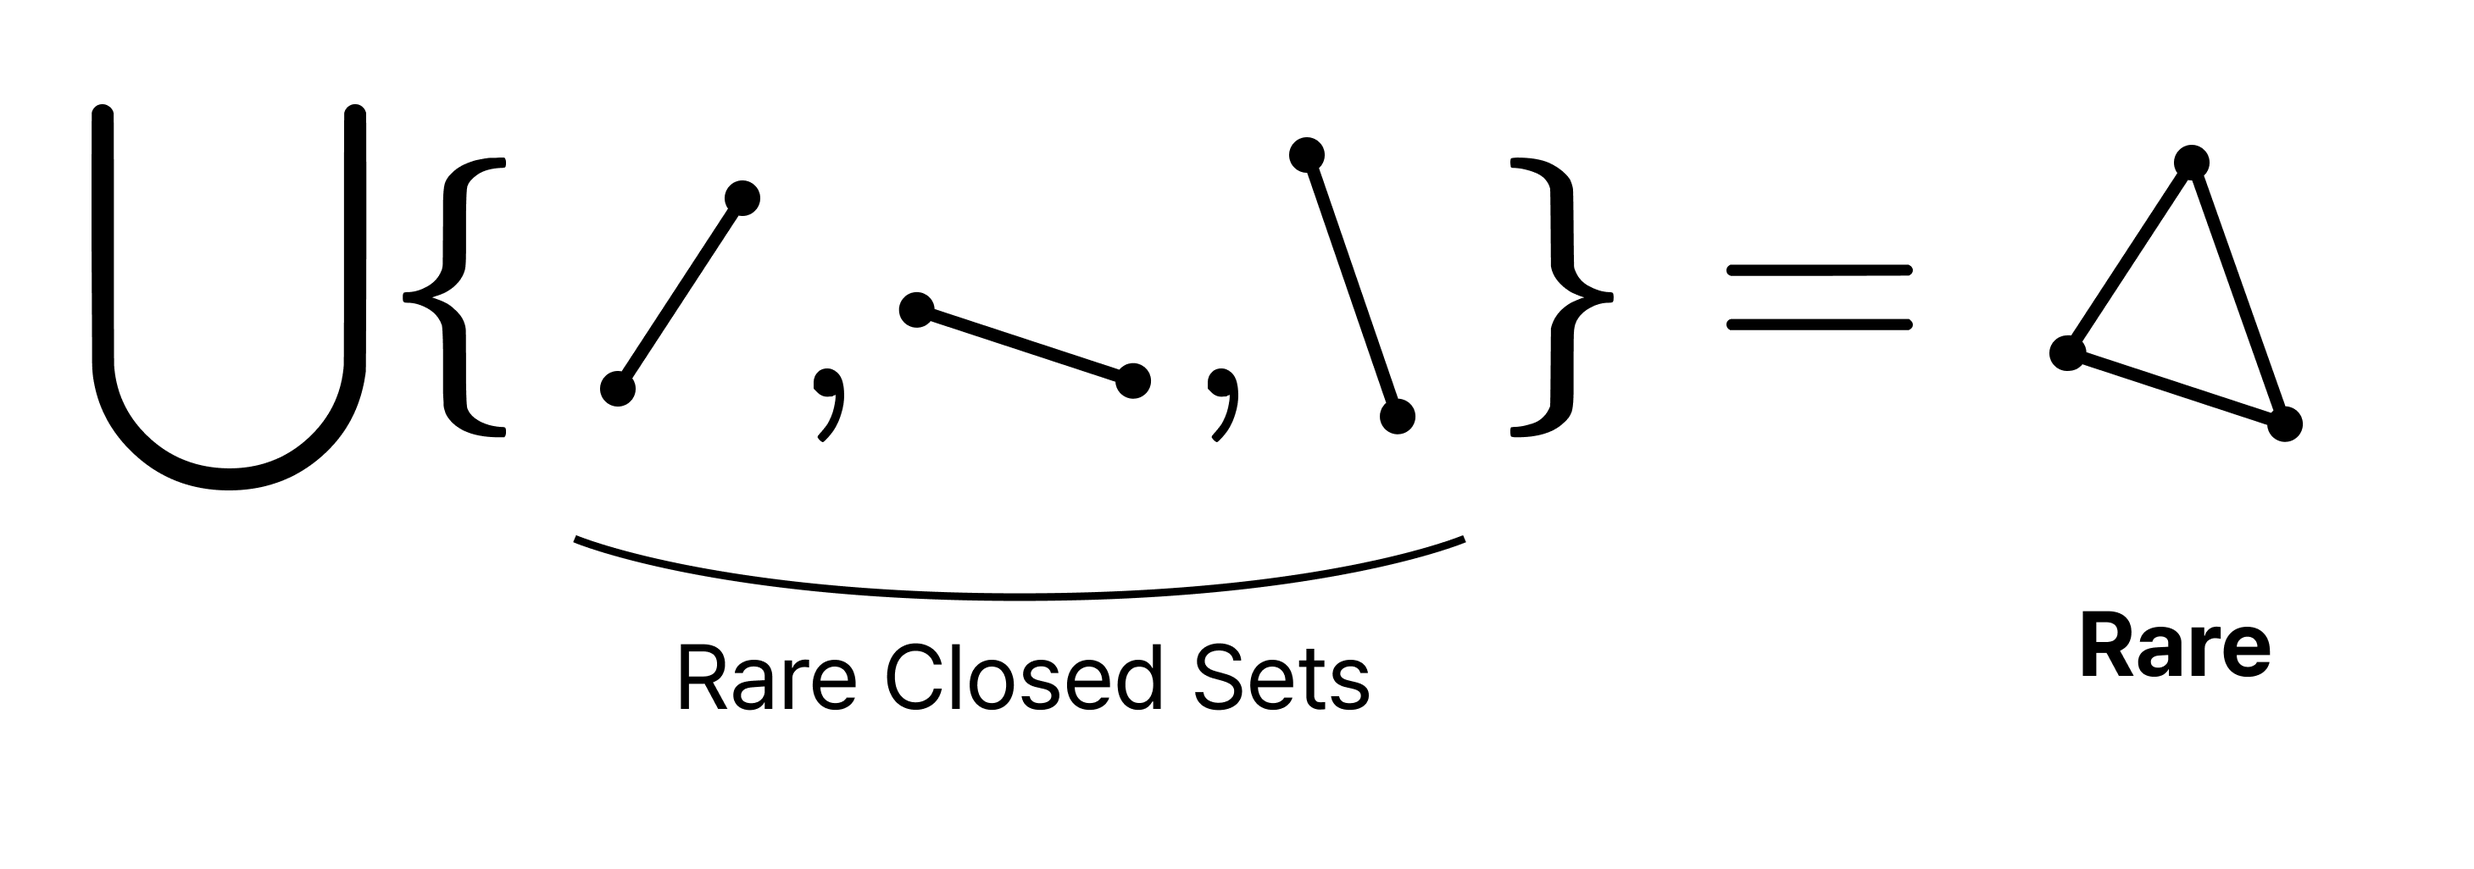
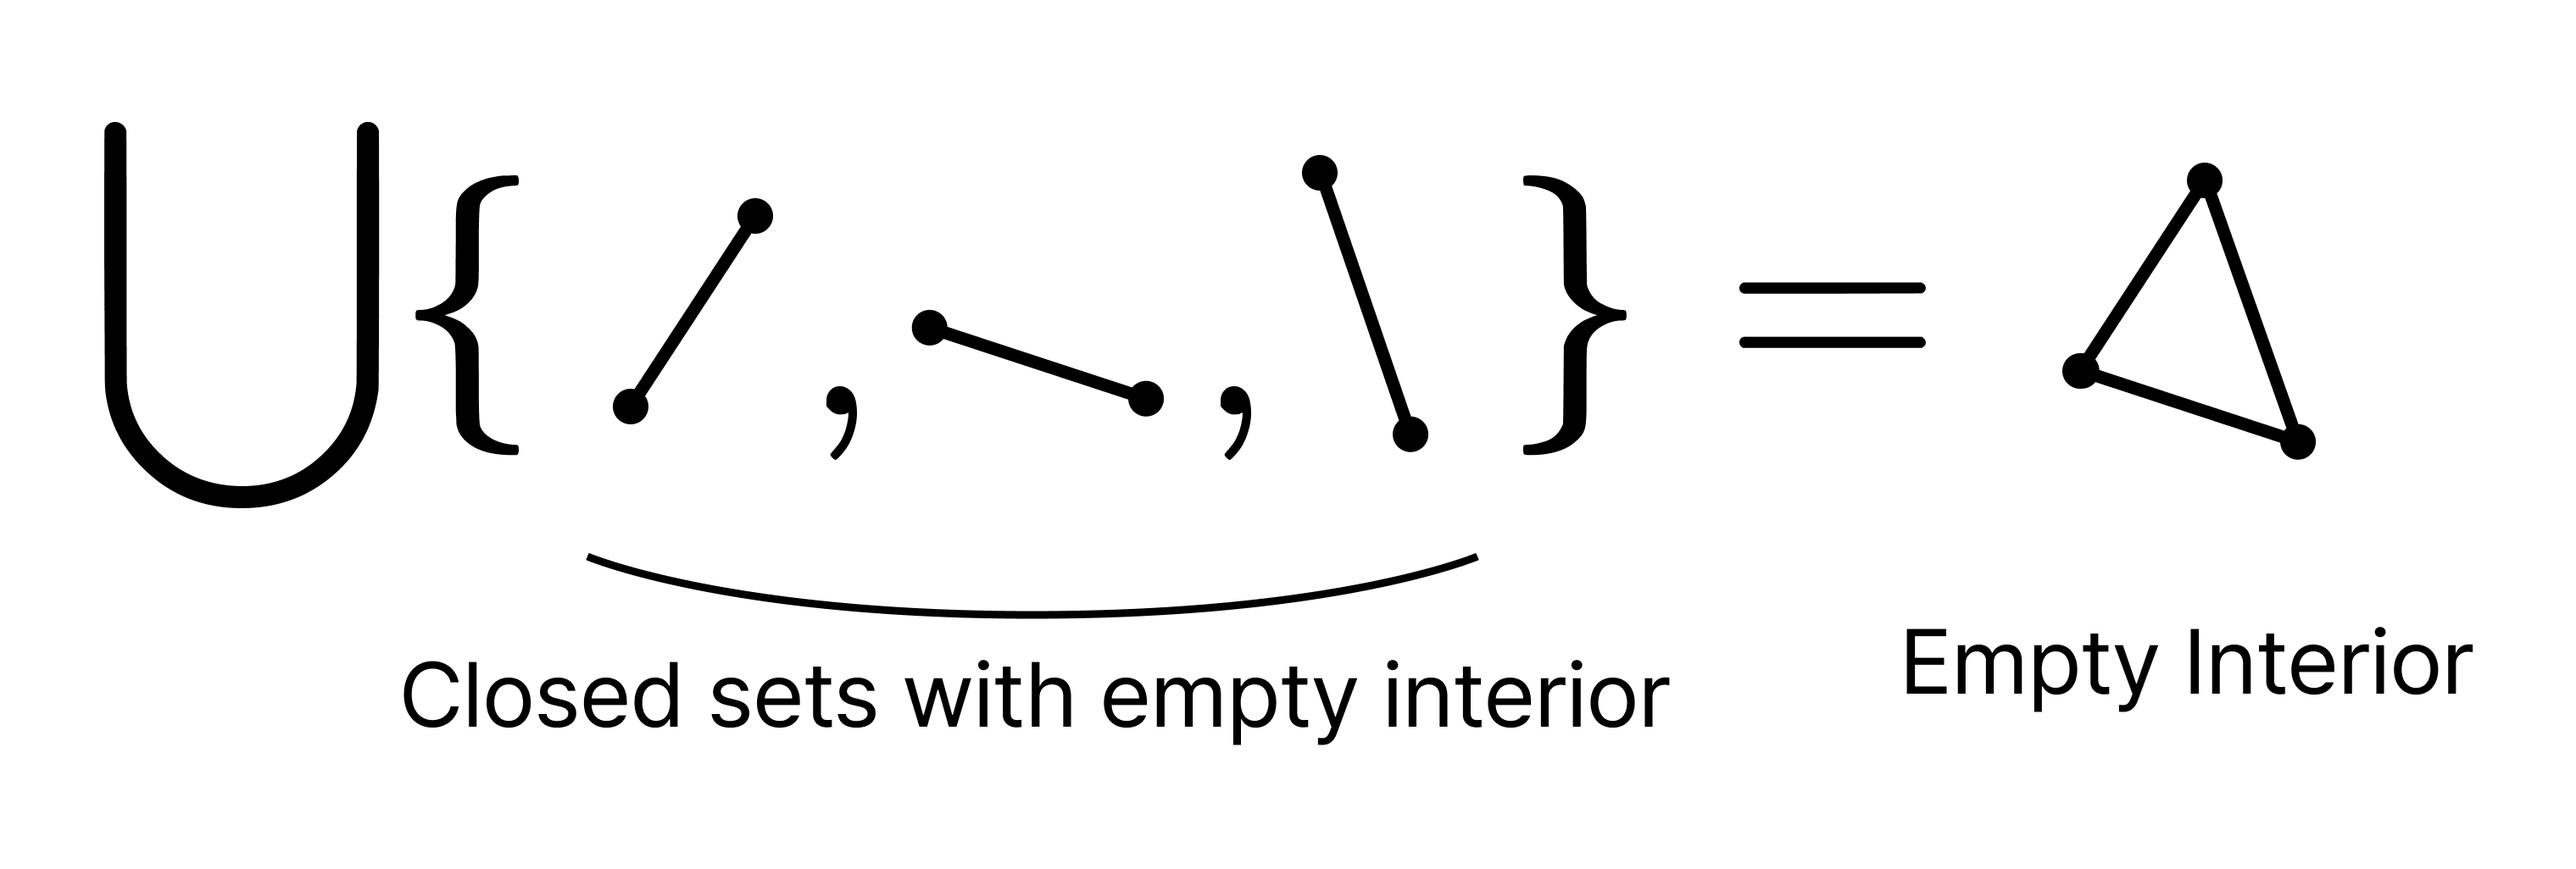
Fixed Baire

diff --git a/docs/page15/index.html b/docs/page15/index.html
@@ -1589,11 +1589,11 @@
     <li>$S$는 어떠한 $X$의 열린 집합에서도 조밀하지 않다.</li>
   </ul>
 
-  <p>이때, $S$를 <strong>희박(rare)</strong>하다고 한다.</p>
+  <p>이때, $S$를 <strong>희박(rare, nowhere dense)</strong>하다고 한다.</p>
 </blockquote>
 
 <blockquote>
-  <p><strong>정의.</strong> 희박한 닫힌 집합들의 가산 합집합 $\bigcup F_n$이 희박한 공간 $X$를 베르 공간이라고 한다.</p>
+  <p><strong>정의.</strong> $X$가 위상공간이라고 하자. 각 $n \in \mathbb{N}$에 대해 $F_n$이 내부가 공집합인 $X$의 닫힌집합이라고 하자. $\bigcap F_n$의 내부 또한 언제나 공집합일 때, $X$를 <strong>베르 공간</strong>이라고 한다.</p>
 </blockquote>
 
 <p><img src="/public/baire.png" style="width: 100%; max-width: 500px; margin: 2em auto;" /></p>
@@ -1603,7 +1603,7 @@
 <p><strong>예시.</strong> $\mathbb{Q}$는 베르 공간이 아니다.</p>
 
 <ul>
-  <li>$\lbrace  q \rbrace$는 닫힌 희박 집합이지만 $\bigcup_{q \in \mathbb{Q}} \lbrace q\rbrace = \mathbb{Q}$는 희박하지 않다.</li>
+  <li>$\lbrace  q \rbrace$는 내부가 공집합인 닫힌 집합이지만 $\bigcup_{q \in \mathbb{Q}} \lbrace q\rbrace = \mathbb{Q}$는 내부를 가진다.</li>
   <li>$\mathbb{Q} \setminus \lbrace  q \rbrace$는 열린 조밀 집합이지만 $\bigcap_{q \in \mathbb{Q}} \left( \mathbb{Q} \setminus \lbrace  q \rbrace  \right) = \varnothing$은 조밀하지 않다.</li>
 </ul>
 

diff --git a/docs/2024/12/01/baire.html b/docs/2024/12/01/baire.html
@@ -391,11 +391,11 @@
     <li>$S$는 어떠한 $X$의 열린 집합에서도 조밀하지 않다.</li>
   </ul>
 
-  <p>이때, $S$를 <strong>희박(rare)</strong>하다고 한다.</p>
+  <p>이때, $S$를 <strong>희박(rare, nowhere dense)</strong>하다고 한다.</p>
 </blockquote>
 
 <blockquote>
-  <p><strong>정의.</strong> 희박한 닫힌 집합들의 가산 합집합 $\bigcup F_n$이 희박한 공간 $X$를 베르 공간이라고 한다.</p>
+  <p><strong>정의.</strong> $X$가 위상공간이라고 하자. 각 $n \in \mathbb{N}$에 대해 $F_n$이 내부가 공집합인 $X$의 닫힌집합이라고 하자. $\bigcap F_n$의 내부 또한 언제나 공집합일 때, $X$를 <strong>베르 공간</strong>이라고 한다.</p>
 </blockquote>
 
 <p><img src="/public/baire.png" style="width: 100%; max-width: 500px; margin: 2em auto;" /></p>
@@ -405,7 +405,7 @@
 <p><strong>예시.</strong> $\mathbb{Q}$는 베르 공간이 아니다.</p>
 
 <ul>
-  <li>$\lbrace  q \rbrace$는 닫힌 희박 집합이지만 $\bigcup_{q \in \mathbb{Q}} \lbrace q\rbrace = \mathbb{Q}$는 희박하지 않다.</li>
+  <li>$\lbrace  q \rbrace$는 내부가 공집합인 닫힌 집합이지만 $\bigcup_{q \in \mathbb{Q}} \lbrace q\rbrace = \mathbb{Q}$는 내부를 가진다.</li>
   <li>$\mathbb{Q} \setminus \lbrace  q \rbrace$는 열린 조밀 집합이지만 $\bigcap_{q \in \mathbb{Q}} \left( \mathbb{Q} \setminus \lbrace  q \rbrace  \right) = \varnothing$은 조밀하지 않다.</li>
 </ul>
 

diff --git a/docs/2024/12/01/baire/en.html b/docs/2024/12/01/baire/en.html
@@ -395,17 +395,15 @@
 </blockquote>
 
 <blockquote>
-  <p><strong>Definition.</strong> A space $X$ is called a <strong>Baire space</strong> if every <em>countable</em> union $\bigcup F_n$ of rare closed sets is rare.</p>
+  <p><strong>Definition.</strong> A space is called a <strong>Baire space</strong> if every countable union of closed sets, each with empty interior, has empty interior. Equivalently, every countable intersection of dense open sets is dense.</p>
 </blockquote>
 
 <p><img src="/public/baire.png" style="width: 100%; max-width: 500px; margin: 2em auto;" /></p>
 
-<p><em>Remark.</em> $X$ is a Baire space iff every countable intersection of open dense sets in $X$ is dense.</p>
-
 <p><strong>Example.</strong> $\mathbb{Q}$ is not a Baire space.</p>
 
 <ul>
-  <li>$\lbrace  q \rbrace$ is a rare closed set, but $\bigcup_{q \in \mathbb{Q}} \lbrace q\rbrace = \mathbb{Q}$ is not rare.</li>
+  <li>$\lbrace  q \rbrace$ is a closed set with empty interior, but $\bigcup_{q \in \mathbb{Q}} \lbrace q\rbrace = \mathbb{Q}$ has nonempty interior.</li>
   <li>$\mathbb{Q} \setminus \lbrace  q \rbrace$ is a dense open set, but $\bigcap_{q \in \mathbb{Q}} \left( \mathbb{Q} \setminus \lbrace  q \rbrace  \right) = \varnothing$ is not dense.</li>
 </ul>
 

diff --git a/docs/page16/index.html b/docs/page16/index.html
@@ -463,17 +463,15 @@
 </blockquote>
 
 <blockquote>
-  <p><strong>Definition.</strong> A space $X$ is called a <strong>Baire space</strong> if every <em>countable</em> union $\bigcup F_n$ of rare closed sets is rare.</p>
+  <p><strong>Definition.</strong> A space is called a <strong>Baire space</strong> if every countable union of closed sets, each with empty interior, has empty interior. Equivalently, every countable intersection of dense open sets is dense.</p>
 </blockquote>
 
 <p><img src="/public/baire.png" style="width: 100%; max-width: 500px; margin: 2em auto;" /></p>
 
-<p><em>Remark.</em> $X$ is a Baire space iff every countable intersection of open dense sets in $X$ is dense.</p>
-
 <p><strong>Example.</strong> $\mathbb{Q}$ is not a Baire space.</p>
 
 <ul>
-  <li>$\lbrace  q \rbrace$ is a rare closed set, but $\bigcup_{q \in \mathbb{Q}} \lbrace q\rbrace = \mathbb{Q}$ is not rare.</li>
+  <li>$\lbrace  q \rbrace$ is a closed set with empty interior, but $\bigcup_{q \in \mathbb{Q}} \lbrace q\rbrace = \mathbb{Q}$ has nonempty interior.</li>
   <li>$\mathbb{Q} \setminus \lbrace  q \rbrace$ is a dense open set, but $\bigcap_{q \in \mathbb{Q}} \left( \mathbb{Q} \setminus \lbrace  q \rbrace  \right) = \varnothing$ is not dense.</li>
 </ul>
 

diff --git a/_posts/2024-12-01-baire-en.md b/_posts/2024-12-01-baire-en.md
@@ -16,15 +16,13 @@ lang: en
 >
 > Such a set $S$ is said to be **rare** (or **nowhere dense**).
 
-> **Definition.** A space $X$ is called a **Baire space** if every _countable_ union $\bigcup F\_n$ of rare closed sets is rare.
+> **Definition.** A space is called a **Baire space** if every countable union of closed sets, each with empty interior, has empty interior. Equivalently, every countable intersection of dense open sets is dense.
 
 <img src="/public/baire.png" style="width: 100%; max-width: 500px; margin: 2em auto;">
 
-_Remark._ $X$ is a Baire space iff every countable intersection of open dense sets in $X$ is dense.
-
 **Example.** $\mathbb{Q}$ is not a Baire space.
 
-- $\lbrace  q \rbrace$ is a rare closed set, but $\bigcup\_{q \in \mathbb{Q}} \lbrace q\rbrace = \mathbb{Q}$ is not rare.
+- $\lbrace  q \rbrace$ is a closed set with empty interior, but $\bigcup\_{q \in \mathbb{Q}} \lbrace q\rbrace = \mathbb{Q}$ has nonempty interior.
 - $\mathbb{Q} \setminus \lbrace  q \rbrace$ is a dense open set, but $\bigcap\_{q \in \mathbb{Q}} \left( \mathbb{Q} \setminus \lbrace  q \rbrace  \right) = \varnothing$ is not dense.
 
 ### 2. The Baire Category Theorem
